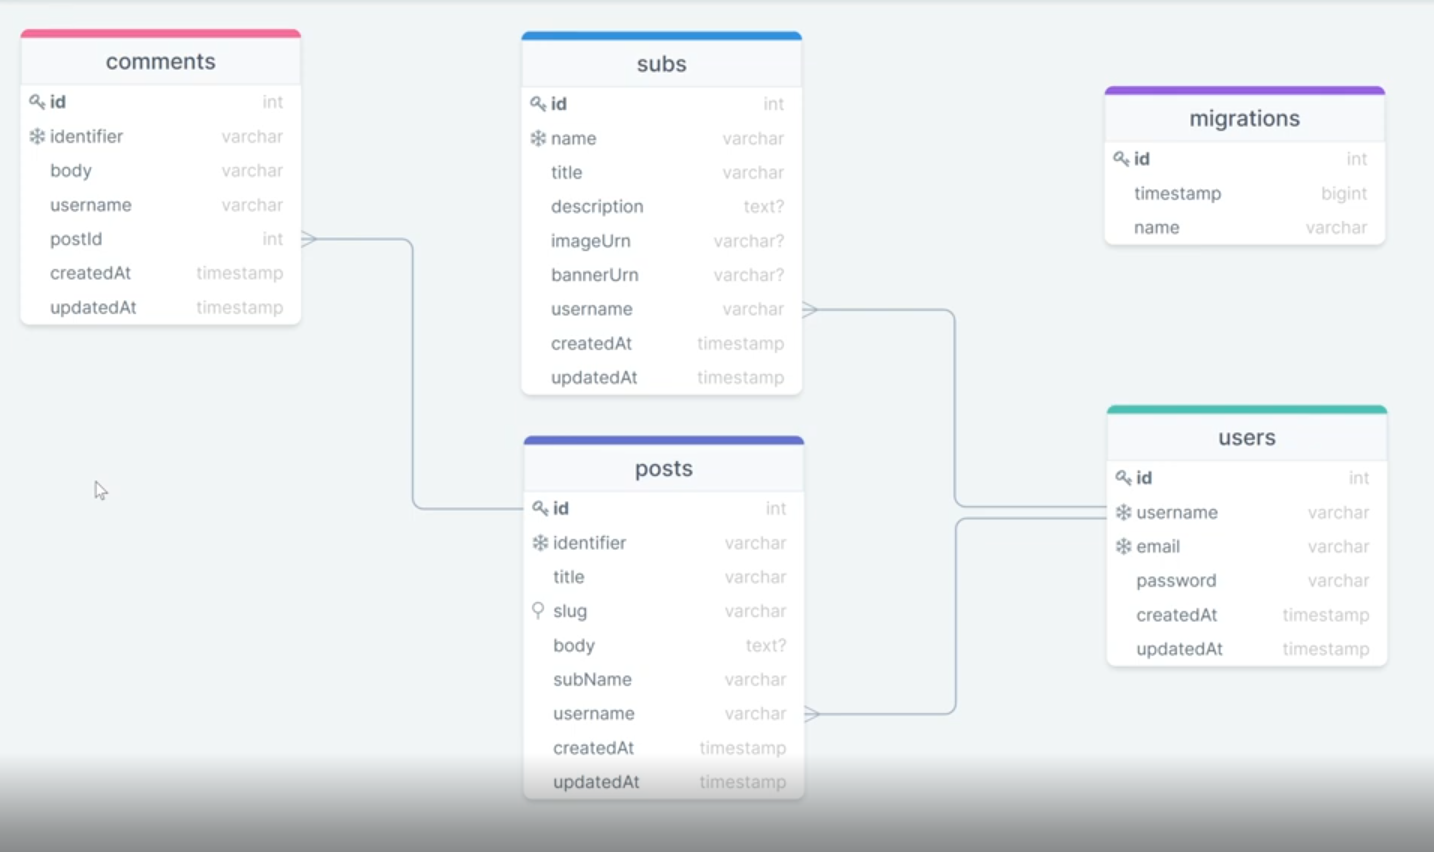
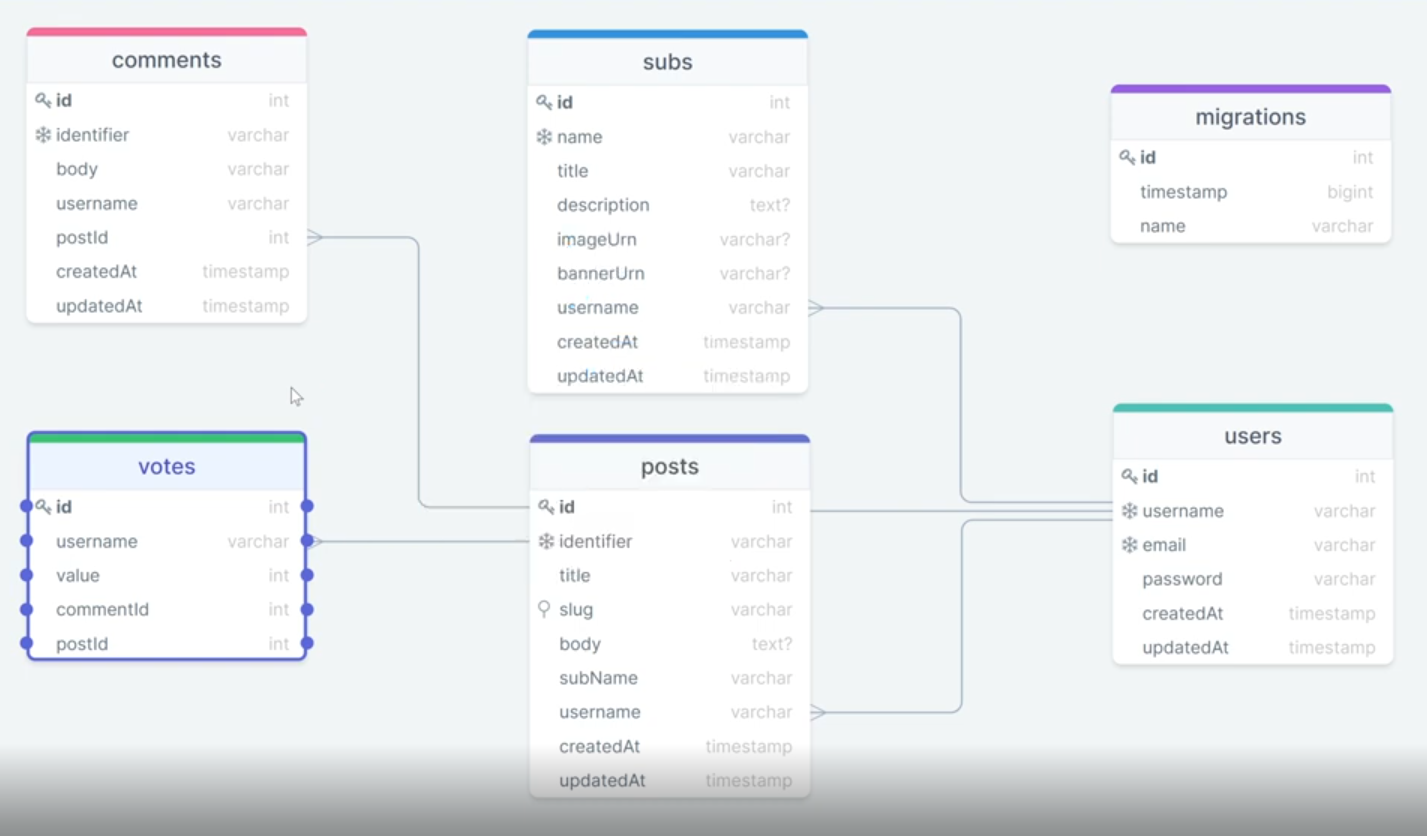
add VOTE Entity

diff --git a/src/entities/Vote.ts b/src/entities/Vote.ts
@@ -1,0 +1,30 @@
+import { Column, Entity as TOENTITY, JoinColumn, ManyToOne } from "typeorm";
+
+import Entity from "./Entity";
+import Post from "./Post";
+import User from "./User";
+import Comment from "./Comment";
+
+@TOENTITY("votes")
+export default class Vote extends Entity {
+  constructor(vote: Partial<Vote>) {
+    super();
+    Object.assign(this, vote);
+  }
+
+  @Column()
+  value: number;
+
+  @ManyToOne(() => User)
+  @JoinColumn({ name: "username", referencedColumnName: "username" })
+  user: User;
+
+  @Column()
+  username: string;
+
+  @ManyToOne(() => Post)
+  post: Post;
+
+  @ManyToOne(() => Comment)
+  comment: Comment;
+}

diff --git a/src/entities/Comment.ts b/src/entities/Comment.ts
@@ -5,12 +5,14 @@ import {
   Index,
   JoinColumn,
   ManyToOne,
+  OneToMany,
 } from "typeorm";
 import Entity from "./Entity";
 import Post from "./Post";
 import User from "./User";
 
 import { makeId } from "../utils/helpers";
+import Vote from "./Vote";
 
 @TOENTITY("comments")
 export default class Comment extends Entity {
@@ -34,6 +36,9 @@ export default class Comment extends Entity {
 
   @ManyToOne(() => Post, (post) => post.comments, { nullable: false })
   post: Post;
+
+  @OneToMany(() => Vote, (vote) => vote.comment)
+  votes: Vote[];
 
   @BeforeInsert()
   makeIdAndSlug() {

diff --git a/src/entities/Post.ts b/src/entities/Post.ts
@@ -14,6 +14,7 @@ import Comment from "./Comment";
 import Entity from "./Entity";
 import Sub from "./Sub";
 import User from "./User";
+import Vote from "./Vote";
 
 @TOENTITY("posts")
 export default class Post extends Entity {
@@ -46,6 +47,9 @@ export default class Post extends Entity {
 
   @OneToMany(() => Comment, (comment) => comment.post)
   comments: Comment[];
+
+  @OneToMany(() => Vote, (vote) => vote.comment)
+  votes: Vote[];
 
   @Expose() get url(): string {
     return `/r/${this.subName}/${this.identifier}/${this.slug}`;

diff --git a/README.md b/README.md
@@ -1,6 +1,6 @@
 # Readit a clone of Reddit
 
-## Diagram
+## ERD
 
 <div align="center">
     <div>
